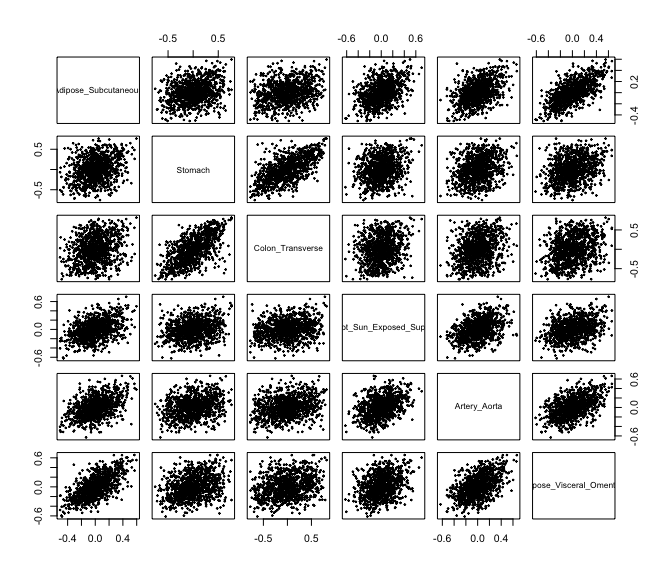
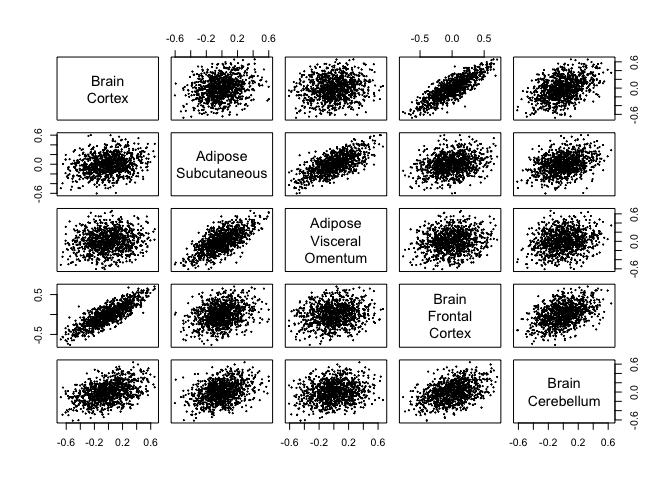
updates

diff --git a/README.md b/README.md
@@ -9,7 +9,7 @@
     `devtools::install_github("yujinj/dlm")`.
 
 ``` r
-#devtools::install_github("yujinj/dlm")
+devtools::install_github("yujinj/dlm")
 library(dlm)
 ```
 
@@ -18,8 +18,9 @@ library(dlm)
 In this example, we use the [GTEx
 V6](https://www.gtexportal.org/home/downloads/adult-gtex/qtl) gene
 expression data. The data has already been preprocessed and normalized.
-We simply filter out genes to only include those observed in all
-tissues.
+We simply filter out genes to only include those observed in all tissues
+and then randomly sample 5000 genes to reduce the size of the data set.
+The preprocessed data set is provided in the package as ‘GTEx_data’.
 
 First, one has to choose $L$ different test functions. Then, define a
 single test function that takes a data set and applies your choice of
@@ -29,17 +30,18 @@ $L = 1000$ test functions as the products of gene-expressions for
 randomly selected $L$ gene-pairs.
 
 ``` r
-set.seed(1)
+set.seed(1000)
 L = 1000
-names1 <- sample(intersect_names, size=L, replace=FALSE)
-names2 <- sample(intersect_names, size=L, replace=FALSE)
+names = colnames(GTEx_data[[1]])
+names1 <- sample(names, size=L, replace=FALSE)
+names2 <- sample(names, size=L, replace=FALSE)
 test.function <- function(data){return(data[,names1] * data[,names2])}
 phi <- function(data){return(data[,names1] * data[,names2])}
 ```
 
 We obtain the correlation matrix of 1000 test functions and check that
 they are mostly weakly correlated. For example, 90% of the correlations
-are within the range: \[-0.05876375, 0.05958139\].
+are within the range: \[-0.059, 0.059\].
 
 ``` r
 phi_matrix = lapply(GTEx_data, FUN=phi)
@@ -49,20 +51,17 @@ quantile(cor_phi[row(cor_phi)!=col(cor_phi)], c(0.05, 0.95))
 ```
 
     ##          5%         95% 
-    ## -0.05876375  0.05958139
+    ## -0.05839611  0.05864404
 
-Then, we fit distributional regressions.
-
-**Example 1**: The target tissue is Adipose Subcutaneous. Other
-available tissues are Stomach, Colon Transverse, Skin (not sun exposed),
-Artery Aorta, and Adipose Visceral Omentum.
+**Example 1**: The target tissue is Brain_Cortex. Other available
+tissues are Adipose_Subcutaneous, Adipose_Visceral_Omentum,
+Brain_Frontal_Cortex_BA9, and Brain_Cerebellum.
 
 ``` r
-dlm.fit = dlm(Adipose_Subcutaneous ~ Stomach + 
-                                     Colon_Transverse + 
-                                     Skin_Not_Sun_Exposed_Suprapubic + 
-                                     Artery_Aorta + 
-                                     Adipose_Visceral_Omentum, 
+dlm.fit = dlm(Brain_Cortex ~ Adipose_Subcutaneous + 
+                             Adipose_Visceral_Omentum +
+                             Brain_Frontal_Cortex_BA9 +
+                             Brain_Cerebellum,
               test.function = phi, 
               data = GTEx_data, 
               whitening = FALSE)
@@ -74,46 +73,61 @@ dlm.fit
 
     ## 
     ## Call:
-    ## dlm(formula = Adipose_Subcutaneous ~ Stomach + Colon_Transverse + 
-    ##     Skin_Not_Sun_Exposed_Suprapubic + Artery_Aorta + Adipose_Visceral_Omentum, 
-    ##     test.function = phi, data = GTEx_data, whitening = FALSE)
+    ## dlm(formula = Brain_Cortex ~ Adipose_Subcutaneous + Adipose_Visceral_Omentum + 
+    ##     Brain_Frontal_Cortex_BA9 + Brain_Cerebellum, test.function = phi, 
+    ##     data = GTEx_data, whitening = FALSE)
     ## 
     ## Residuals:
     ##      Min       1Q   Median       3Q      Max 
-    ## -0.51330 -0.09280 -0.00250  0.09719  0.55574 
+    ## -0.56838 -0.09436 -0.00604  0.08739  0.40917 
     ## 
     ## Coefficients:
-    ##                                 Estimate Std. Error t value Pr(>|t|)    
-    ## Stomach                          0.04250    0.02080   2.043   0.0413 *  
-    ## Colon_Transverse                 0.04331    0.01775   2.439   0.0149 *  
-    ## Skin_Not_Sun_Exposed_Suprapubic  0.25449    0.02303  11.050  < 2e-16 ***
-    ## Artery_Aorta                     0.18669    0.02566   7.274 7.05e-13 ***
-    ## Adipose_Visceral_Omentum         0.47301    0.02315  20.431  < 2e-16 ***
+    ##                            Estimate Std. Error t value Pr(>|t|)    
+    ## Adipose_Subcutaneous     -0.0001295  0.0304036  -0.004   0.9966    
+    ## Adipose_Visceral_Omentum  0.0462641  0.0250888   1.844   0.0655 .  
+    ## Brain_Frontal_Cortex_BA9  0.7846112  0.0184325  42.567  < 2e-16 ***
+    ## Brain_Cerebellum          0.1692543  0.0217128   7.795 1.61e-14 ***
     ## ---
     ## Signif. codes:  0 '***' 0.001 '**' 0.01 '*' 0.05 '.' 0.1 ' ' 1
     ## 
-    ## Residual standard error: 0.1463 on 996 degrees of freedom
-    ## Multiple R-squared:  0.2859, Adjusted R-squared:  0.2831 
-    ## F-statistic:  99.7 on 4 and 996 DF,  p-value: < 2.2e-16
+    ## Residual standard error: 0.1377 on 997 degrees of freedom
+    ## Multiple R-squared:  0.5088, Adjusted R-squared:  0.5073 
+    ## F-statistic: 344.3 on 3 and 997 DF,  p-value: < 2.2e-16
 
 We present a pair plot where each row and column represents one tissue,
 and each dot represents the mean of the test function. In our case, the
 mean of the test function corresponds to the covariance of a randomly
 selected gene-pair. We can observe some linear relationships between
 tissues, which are reflected in our ‘dlm’ results.
+
+``` r
+pairs(dlm.fit$X, cex = 0.2, labels = c("Brain\nCortex", "Adipose\nSubcutaneous", "Adipose\nVisceral\nOmentum", "Brain\nFrontal\nCortex", "Brain\nCerebellum"))
+```
 
 ![](README_files/figure-gfm/unnamed-chunk-7-1.png)<!-- -->
 
-**Example 2**: The target tissue is Stomach. Other available tissues are
-Adipose Subcutaneous, Colon Transverse, Skin (not sun exposed), Artery
-Aorta, and Adipose Visceral Omentum.
+**Example 2**: We randomly select 6 tissues: Artery_Aorta, Vagina,
+Esophagus_Gastroesophageal_Junction, Esophagus_Muscularis,
+Muscle_Skeletal, Skin_Not_Sun_Exposed_Suprapubic.
 
 ``` r
-dlm.fit = dlm(Stomach ~ Adipose_Subcutaneous + 
-                        Colon_Transverse + 
-                        Skin_Not_Sun_Exposed_Suprapubic + 
-                        Artery_Aorta + 
-                        Adipose_Visceral_Omentum, 
+set.seed(1000)
+sampled_tissues = sample(names(GTEx_data), 6)
+sampled_tissues
+```
+
+    ## [1] "Artery_Aorta"                        "Vagina"                             
+    ## [3] "Esophagus_Gastroesophageal_Junction" "Esophagus_Muscularis"               
+    ## [5] "Muscle_Skeletal"                     "Skin_Not_Sun_Exposed_Suprapubic"
+
+Let the target tissue be Artery_Aorta.
+
+``` r
+dlm.fit = dlm(Artery_Aorta ~ Vagina + 
+                             Esophagus_Gastroesophageal_Junction + 
+                             Esophagus_Muscularis + 
+                             Muscle_Skeletal +
+                             Skin_Not_Sun_Exposed_Suprapubic,
               test.function = phi, 
               data = GTEx_data, 
               whitening = FALSE)
@@ -125,32 +139,71 @@ dlm.fit
 
     ## 
     ## Call:
-    ## dlm(formula = Stomach ~ Adipose_Subcutaneous + Colon_Transverse + 
-    ##     Skin_Not_Sun_Exposed_Suprapubic + Artery_Aorta + Adipose_Visceral_Omentum, 
+    ## dlm(formula = Artery_Aorta ~ Vagina + Esophagus_Gastroesophageal_Junction + 
+    ##     Esophagus_Muscularis + Muscle_Skeletal + Skin_Not_Sun_Exposed_Suprapubic, 
     ##     test.function = phi, data = GTEx_data, whitening = FALSE)
     ## 
     ## Residuals:
     ##      Min       1Q   Median       3Q      Max 
-    ## -0.72809 -0.13488  0.00535  0.14058  0.97711 
+    ## -0.63242 -0.10869  0.00123  0.10808  0.56197 
     ## 
     ## Coefficients:
-    ##                                 Estimate Std. Error t value Pr(>|t|)    
-    ## Adipose_Subcutaneous             0.09820    0.04806   2.043 0.041312 *  
-    ## Colon_Transverse                 0.51287    0.02165  23.692  < 2e-16 ***
-    ## Skin_Not_Sun_Exposed_Suprapubic  0.13925    0.03683   3.781 0.000165 ***
-    ## Artery_Aorta                     0.11325    0.03987   2.840 0.004597 ** 
-    ## Adipose_Visceral_Omentum         0.13644    0.04170   3.272 0.001105 ** 
+    ##                                     Estimate Std. Error t value Pr(>|t|)    
+    ## Vagina                               0.12676    0.02079   6.097 1.55e-09 ***
+    ## Esophagus_Gastroesophageal_Junction  0.22002    0.04970   4.427 1.06e-05 ***
+    ## Esophagus_Muscularis                 0.23439    0.04864   4.819 1.67e-06 ***
+    ## Muscle_Skeletal                      0.14467    0.02752   5.256 1.80e-07 ***
+    ## Skin_Not_Sun_Exposed_Suprapubic      0.27415    0.02751   9.964  < 2e-16 ***
     ## ---
     ## Signif. codes:  0 '***' 0.001 '**' 0.01 '*' 0.05 '.' 0.1 ' ' 1
     ## 
-    ## Residual standard error: 0.2224 on 996 degrees of freedom
-    ## Multiple R-squared:  0.1735, Adjusted R-squared:  0.1702 
-    ## F-statistic: 52.26 on 4 and 996 DF,  p-value: < 2.2e-16
+    ## Residual standard error: 0.1706 on 996 degrees of freedom
+    ## Multiple R-squared:  0.01825,    Adjusted R-squared:  0.01431 
+    ## F-statistic: 4.628 on 4 and 996 DF,  p-value: 0.001049
 
-We present a pair plot where each row and column represents one tissue,
-and each dot represents the mean of the test function. In our case, the
-mean of the test function corresponds to the covariance of a randomly
-selected gene-pair. We can observe some linear relationships between
-tissues, which are reflected in our ‘dlm’ results.
+``` r
+pairs(dlm.fit$X, cex = 0.2, labels = gsub("_", "\n", sampled_tissues))
+```
 
-![](README_files/figure-gfm/unnamed-chunk-10-1.png)<!-- -->
+![](README_files/figure-gfm/unnamed-chunk-11-1.png)<!-- -->
+
+Let the target tissue be Esophagus_Muscularis.
+
+``` r
+dlm.fit = dlm(Esophagus_Muscularis ~ Artery_Aorta +
+                                     Vagina + 
+                                     Esophagus_Gastroesophageal_Junction + 
+                                     Muscle_Skeletal +
+                                     Skin_Not_Sun_Exposed_Suprapubic,
+              test.function = phi, 
+              data = GTEx_data, 
+              whitening = FALSE)
+```
+
+``` r
+dlm.fit
+```
+
+    ## 
+    ## Call:
+    ## dlm(formula = Esophagus_Muscularis ~ Artery_Aorta + Vagina + 
+    ##     Esophagus_Gastroesophageal_Junction + Muscle_Skeletal + Skin_Not_Sun_Exposed_Suprapubic, 
+    ##     test.function = phi, data = GTEx_data, whitening = FALSE)
+    ## 
+    ## Residuals:
+    ##      Min       1Q   Median       3Q      Max 
+    ## -0.33478 -0.07010  0.00437  0.08240  0.33172 
+    ## 
+    ## Coefficients:
+    ##                                     Estimate Std. Error t value Pr(>|t|)    
+    ## Artery_Aorta                         0.09720    0.02017   4.819 1.67e-06 ***
+    ## Vagina                               0.02822    0.01361   2.074   0.0384 *  
+    ## Esophagus_Gastroesophageal_Junction  0.79829    0.02012  39.678  < 2e-16 ***
+    ## Muscle_Skeletal                      0.11432    0.01760   6.496 1.30e-10 ***
+    ## Skin_Not_Sun_Exposed_Suprapubic     -0.03803    0.01854  -2.051   0.0405 *  
+    ## ---
+    ## Signif. codes:  0 '***' 0.001 '**' 0.01 '*' 0.05 '.' 0.1 ' ' 1
+    ## 
+    ## Residual standard error: 0.1098 on 996 degrees of freedom
+    ## Multiple R-squared:  0.5165, Adjusted R-squared:  0.5146 
+    ## F-statistic:   266 on 4 and 996 DF,  p-value: < 2.2e-16
